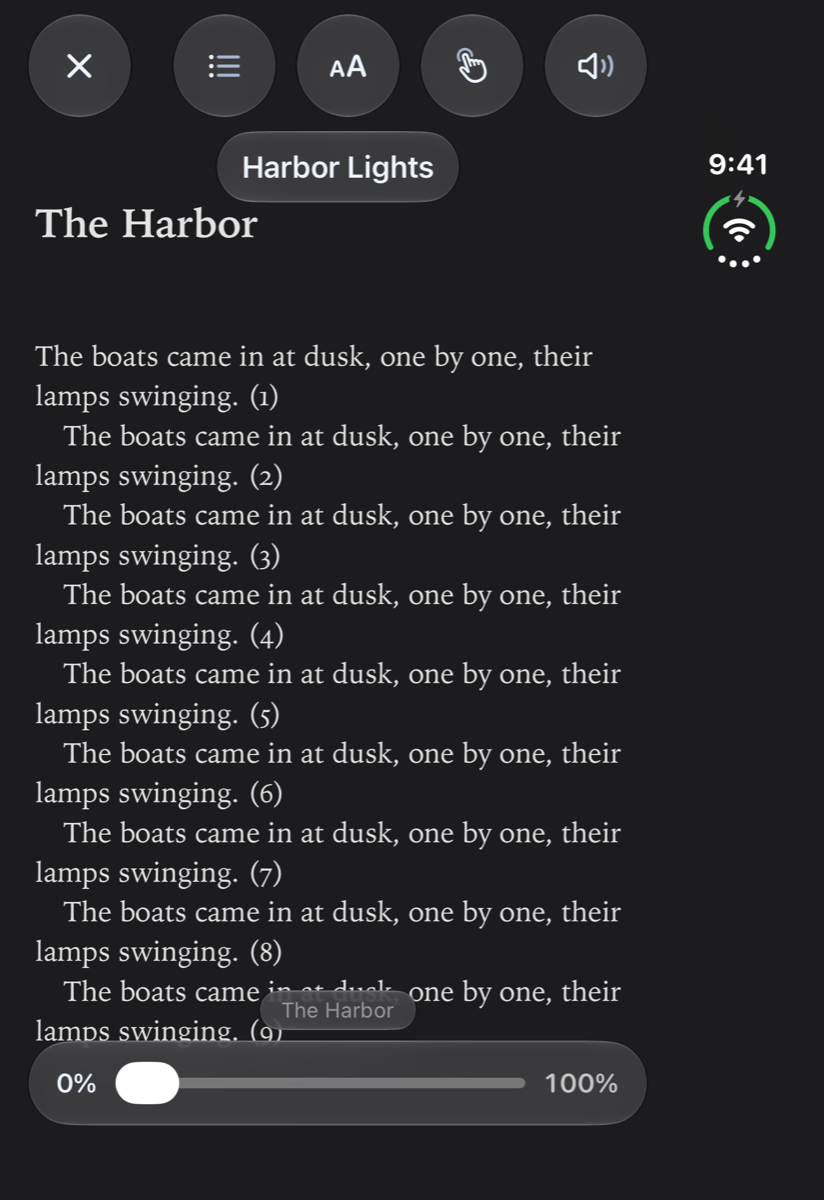
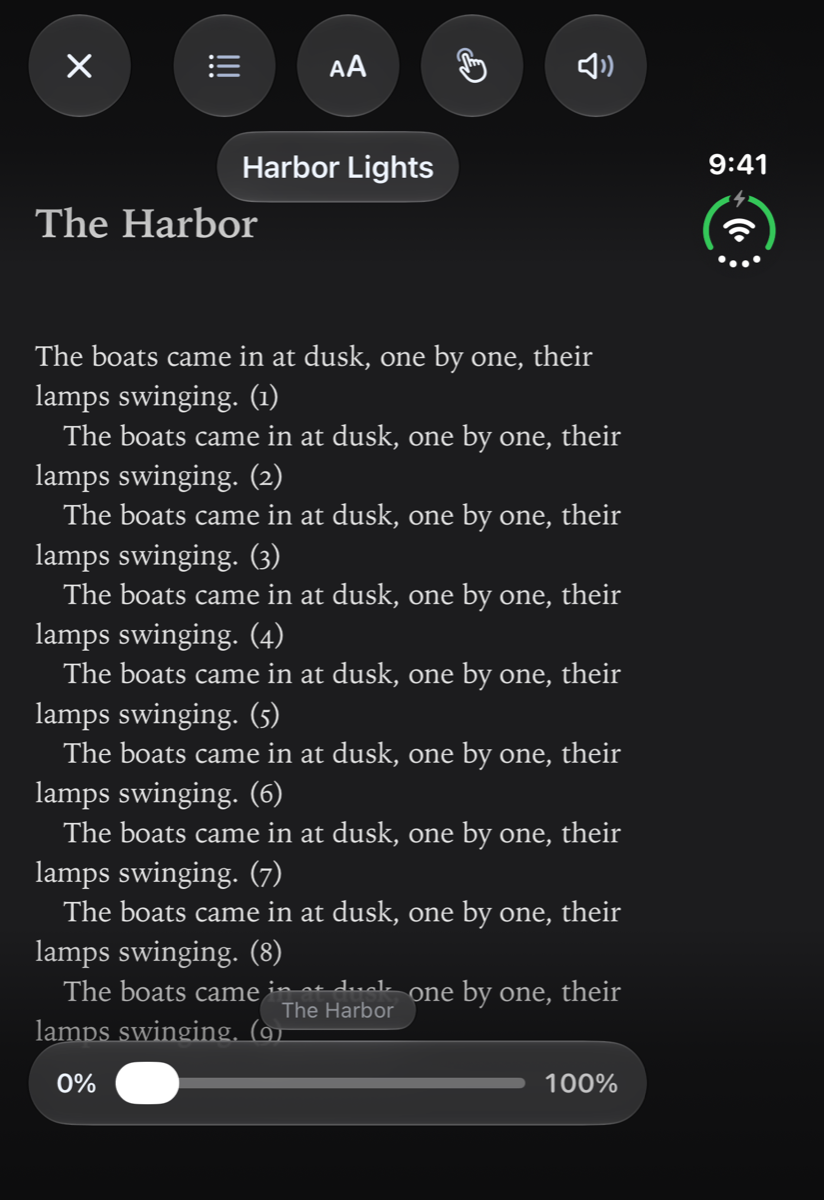
Publish the guide (from 31679b0)

diff --git a/Reader.md b/Reader.md
@@ -145,7 +145,7 @@ An EPUB's text reflows to fit your screen. Its controls are a little different:
   - **Turn Style**: **Slide**, **Curl**, **Instant** or **Vertical Scroll**.
 - **Read Aloud** (the speaker) reads the book to you from the page you're on. Its speed and whether it turns pages for you are in Settings → Reading → **Turning Pages**.
 
-The scrubber moves through the book by position. Tap zones, keys and page turners work as they do for comics. As with comics, **This Book Only** gives one book its own look.
+The scrubber moves through the book by position. With **Shade Behind Controls** on, the dark shade sits behind the buttons, the Read Aloud bar and the scrubber here too, and they turn light so they stand out on a white page. Tap zones, keys and page turners work as they do for comics. As with comics, **This Book Only** gives one book its own look.
 
 As in a printed book, the chapter's name and the time left in it sit above the text, and a page number sits under each page, counted from the start of the chapter. They show while the controls are hidden. Turn each off in Settings → Reading → **Book Types** → **Around the Text**.
 

diff --git a/whats-new.md b/whats-new.md
@@ -12,6 +12,21 @@ The highlights of each MK Plus update since public TestFlight testing began (ver
 
 ## November 2026
 
+### A book's controls you can see on a white page
+
+_Version 1.364.0 · 13 November 2026_
+
+- In a book, a soft dark shade now sits behind the buttons, the Read Aloud bar and the scrubber, so they're easy to see on a white page.
+
+<details markdown="1">
+<summary>Everything in 1.364.0</summary>
+
+**Changed**
+
+- Shade Behind Controls covers EPUB books too: the buttons at the top and the Read Aloud bar and scrubber at the bottom get a dark shade and turn light, whatever the page's theme. The middle of the page stays clear. Turn it off in Settings → Reading → Controls & Closing.
+
+</details>
+
 ### Home asks you to sign in again
 
 _Version 1.363.0 · 13 November 2026_

diff --git a/Settings-Media.md b/Settings-Media.md
@@ -129,7 +129,7 @@ With Show Advanced Settings on, this page also has **Show Zones After a Change**
 
 ### Controls & Closing
 
-- **Controls**: **Keep Controls When Turning**, **Shade Behind Controls** (a soft dark shade behind a comic's or PDF's controls, on to start with) and **Haptic on Page Turn**.
+- **Controls**: **Keep Controls When Turning**, **Shade Behind Controls** (a soft dark shade behind the controls of a comic, PDF or book, on to start with) and **Haptic on Page Turn**.
 - **Closing & the End**: **Swipe Down to Close**, and **At the End**: **Offer Next Book**, **Close the Book** or **Nothing**. With **Offer Next Book**, **Open Without Asking** skips the card.
 
 With Show Advanced Settings on, this page also has **Title Above Controls** and **Center Timeline on Display**.
